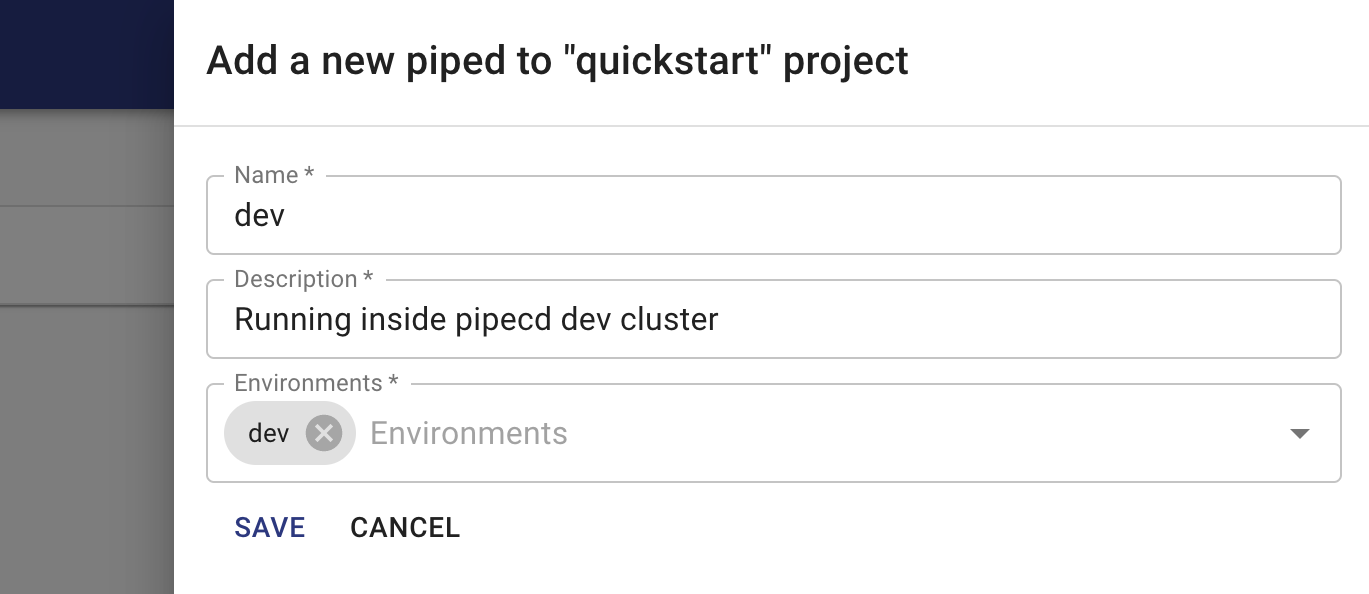
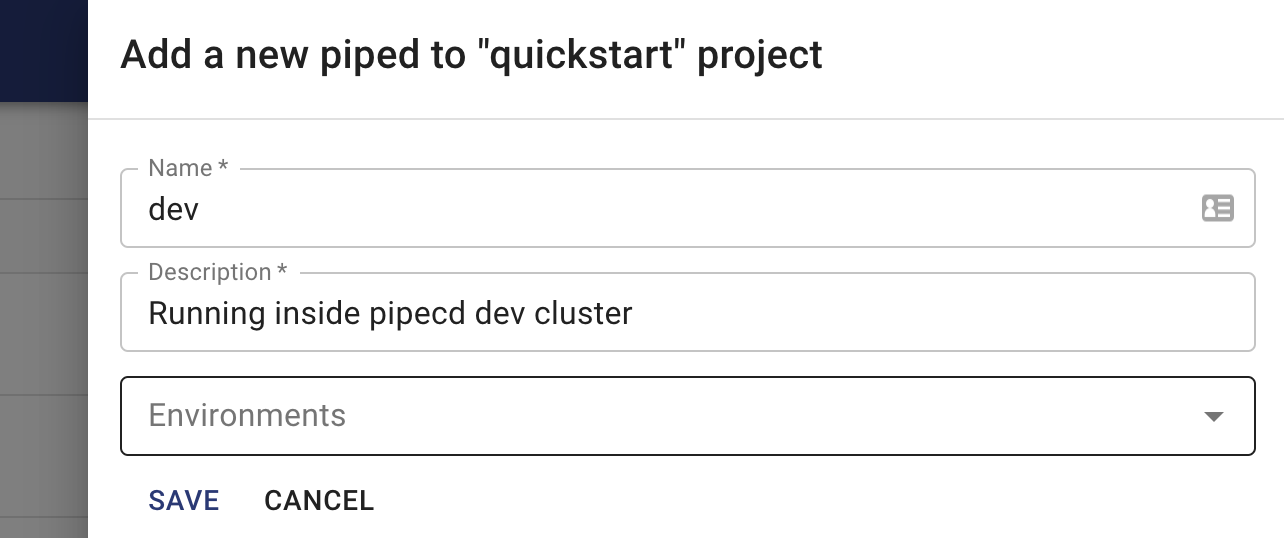
Update quickstart

Changed region(s): [[0.0, 0.0, 1.0, 1.0], [0.9657, 0.5651, 0.9969, 0.5948]]

diff --git a/docs/content/en/docs-dev/quickstart/_index.md b/docs/content/en/docs-dev/quickstart/_index.md
@@ -40,16 +40,7 @@ Enter the project name, username and password. Be sure to give the following:
 - Username: `hello-pipecd`
 - Password: `hello-pipecd`
 
-### 3. Adding an environment
-Go to the `Environment` tab at `Settings` page and click on the `Add` button to add a new [Environment](/docs/concepts/#environment) to the project.
-
-Then you give the environment name and its description as shown below:
-
-![](/images/quickstart-adding-environment.png)
-
-After filling out the form, click on the `Save` button.
-
-### 4. Installing a `piped`
+### 3. Installing a `piped`
 Before running a piped, you have to register it on the web and take the generated ID and Key strings.
 
 Navigate to the `Piped` tab on the same page as before, click on the `Add` button. Then you enter as:
@@ -74,8 +65,13 @@ helm install piped pipecd/piped -n pipecd \
   --set secret.pipedKey.data={YOUR_PIPED_SECRET_KEY}
 ```
 
-### 5. Configuring a kubernetes application
-Navigate to the `Application` page, click on the `Add` button. Then give as:
+### 4. Registering a kubernetes application
+Navigate to the `Application` page, click on the `Add` button.
+
+Then go to the `ADD FROM GIT` tab, select Piped that you just registered, and select `kubernetes-default` as the Cloud Provider.
+Then you should see a lot of application suggestions (you may not see them yet if you have just installed Piped).
+
+Click the `canary` row. Make sure Kind is set to KUBENETES, and then click the ADD button.
 
 ![](/images/quickstart-adding-application.png)
 
@@ -83,7 +79,7 @@ After a bit, the first deployment would be complete automatically to sync the ap
 
 ![](/images/quickstart-first-deployment.png)
 
-### 6. Let's deploy!
+### 5. Let's deploy!
 Let's get started with deployment! All you have to do is to make a PR to update the image tag, scale the replicas, or change the manifests.
 
 For instance, open the `kubernetes/canary/deployment.yaml` under the forked examples' repository, then change the tag from `v0.1.0` to `v0.2.0`.
@@ -94,7 +90,7 @@ After a short wait, a new deployment will be started to update to `v0.2.0`.
 
 ![](/images/quickstart-deploying.png)
 
-### 7. Cleanup
+### 6. Cleanup
 When you’re finished experimenting with PipeCD, you can uninstall with:
 
 ``` console
